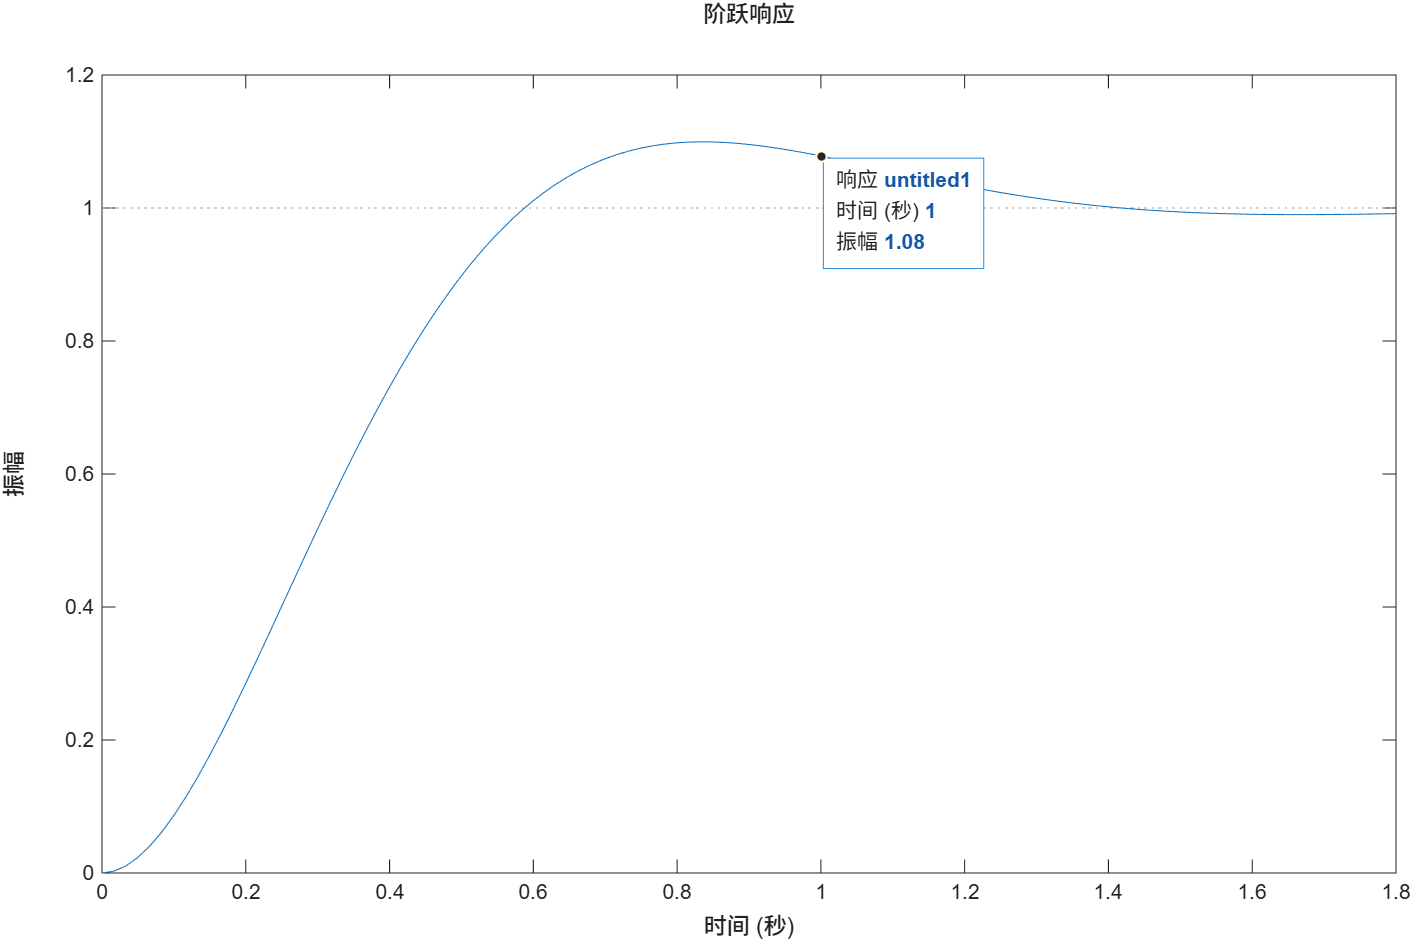
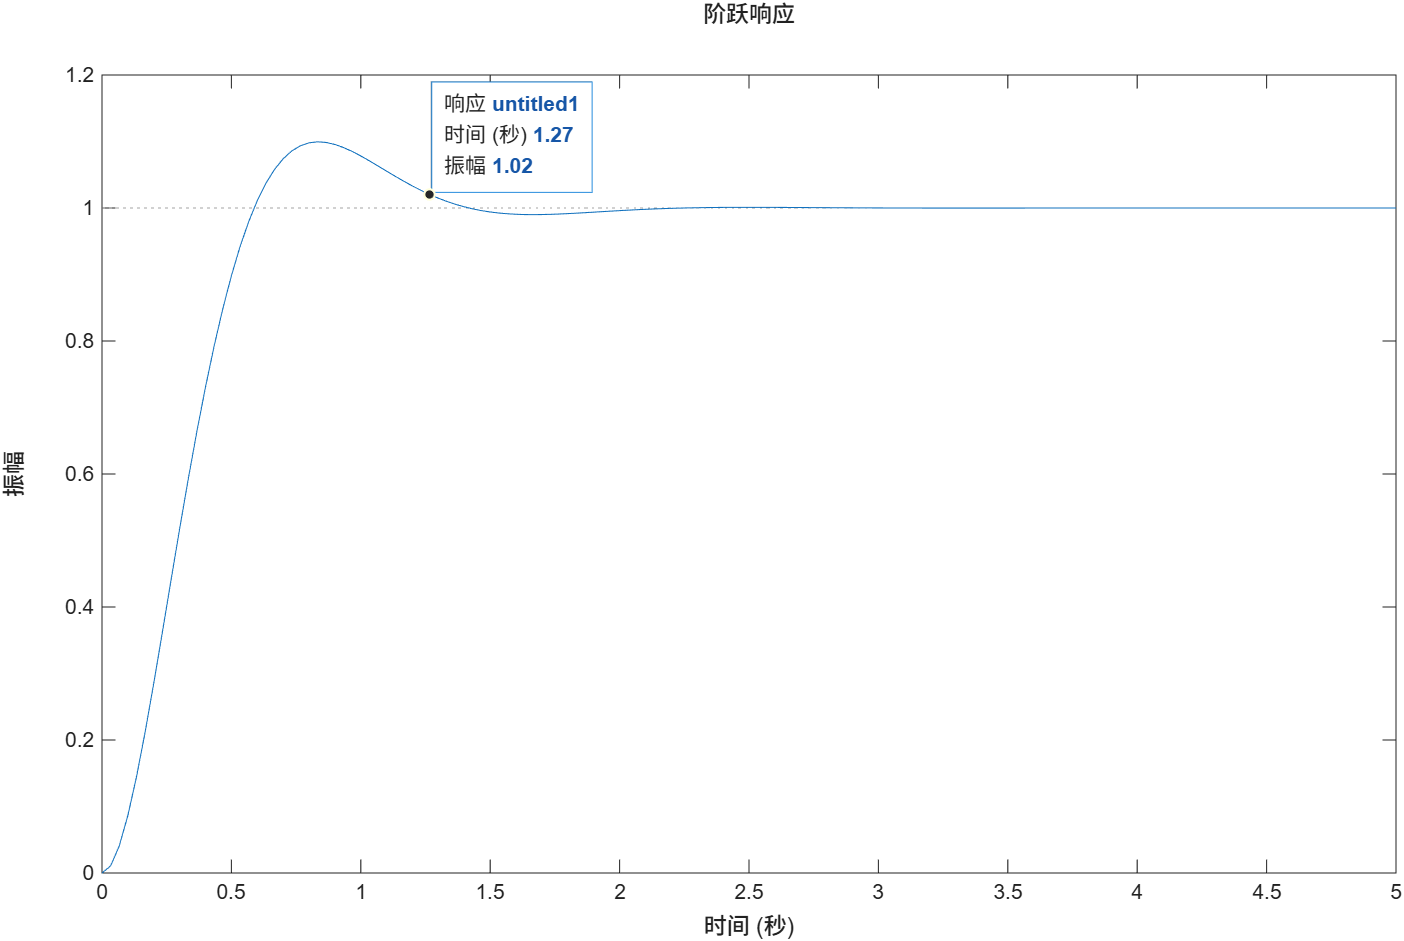
final version

diff --git a/report.tex b/report.tex
@@ -135,14 +135,14 @@
 \chapter{前言}
 本报告为西北工业大学电子信息学院《自动控制原理》课程设计成果，围绕两个核心课题展开，分别对应于课程设计的两道大题。报告采用经典控制理论的分析方法，结合 MATLAB 仿真工具，完成了从系统建模、性能分析到校正设计的全过程。
 
-第一章针对**空间站方位控制系统**展开根轨迹分析与优化设计。该章共分为三节：
+第一章针对空间站方位控制系统展开根轨迹分析与优化设计。该章共分为三节：
 \begin{itemize}
     \item 第一节“原系统根轨迹”对应题目第(1)-(4)小问，完成了根轨迹绘制与关键点标注、系统稳定性判定、阻尼比与自然频率的几何意义阐释，并根据超调量指标确定了合适的开环增益范围。
     \item 第二节“比例-微分控制”对应题目第(5)小问，评估了原系统的调节时间性能，设计了比例-微分（PD）控制器，并通过参数调整使系统满足了动态性能指标要求。
-    \item 第三节“过程中的其它尝试和反思”记录了在设计过程中对最优控制器参数求解的数学探索与思考，展示了控制理论学习的深入过程。
+    \item 第三节“过程中的其它尝试和反思”记录了在设计过程中对最优控制器参数求解的数学探索与思考。
 \end{itemize}
 
-第二章针对**角度跟踪系统**展开串联校正网络的设计与性能对比。该章共分为两节：
+第二章针对角度跟踪系统展开串联校正网络的设计与性能对比。该章共分为两节：
 \begin{itemize}
     \item 第一节“原系统的频域和时域分析”对应题目要求(1)-(2)，通过稳态误差分析确定了系统增益，并从时域和频域两个维度全面评估了原系统的性能。
     \item 第二节“串联校正装置的设置和性能分析”对应题目要求(3)-(5)，分别完成了串联超前、滞后-超前、串联滞后三种校正装置的设计与仿真验证，通过对比分析总结了不同校正网络的特点与适用范围。
@@ -150,10 +150,82 @@
 
 附录部分提供了支撑本报告的完整 MATLAB 源代码，包括根轨迹自动标注、性能热力图绘制、频域特性分析及各类校正装置的仿真脚本。
 
-由于本报告有大量彩色图片，可运行代码，含有超链接的文本（蓝色字体），推荐阅读电子版，可通过以下 GitHub 仓库获取：\\
-\url{https://github.com/hyh-npu/CR}
+由于本报告有大量彩色图片，可运行代码，含有超链接的文本（蓝色字体），推荐阅读电子版，可通过以下 GitHub 仓库获取：
+\url{https://github.com/hyh-npu/CR}（或浏览器扫描下方左侧二维码）或者微信扫描下方右侧二维码获取（需登录学校企业WPS账号）。
+\begin{figure}[H]
+    \centering
+    \begin{subfigure}[b]{0.3\textwidth}
+        \centering
+        \includegraphics[width=\linewidth]{./QRgithub.png}
+        \caption{GitHub 仓库二维码}
+    \end{subfigure}
+    \hspace{0.1\textwidth}
+    \begin{subfigure}[b]{0.3\textwidth}
+        \centering
+        \includegraphics[width=\linewidth]{./QRwps.png}
+        \caption{微信获取二维码}
+    \end{subfigure}
+\end{figure}
+本报告中的所有理论分析、方案设计与结果解读均由本人独立完成，具体说明见文末《其它说明》。由于水平有限，报告中难免存在疏漏之处，恳请老师批评指正。
 
-本报告中的所有理论分析、方案设计与结果解读均由本人独立完成，AI 工具仅作为编程辅助手段使用，具体说明见文末《说明和致谢》。由于作者水平有限，报告中难免存在疏漏之处，恳请老师批评指正。
+\chapter{符号说明}
+
+\begin{table}[htbp]
+\centering
+\renewcommand{\arraystretch}{1.35}
+\begin{tabular}{p{3.2cm}p{10cm}}
+\toprule
+\textbf{符号} & \textbf{说明} \\
+\midrule
+\multicolumn{2}{l}{\textit{基本变量与系统模型}} \\
+$s$ & 复频率变量 \\
+$\mathrm{j}$ & 虚数单位，$\mathrm{j}^2=-1$ \\
+$G(s),\,G_0(s)$ & 开环传递函数（$G_0(s)$ 特指原系统） \\
+$G_c(s)$ & 串联校正装置传递函数 \\
+$T(s)$ & 闭环传递函数 \\
+$K,\,K^*$ & 系统开环增益 \\
+$K_v$ & 静态速度误差系数 \\
+$p_i$ & 第 $i$ 个开环极点 \\
+$z_j$ & 第 $j$ 个开环零点 \\
+$n,\,m$ & 开环极点个数与零点个数 \\
+$D(s)$ & 系统特征方程，$1+G(s)H(s)=0$ \\
+\midrule
+\multicolumn{2}{l}{\textit{时域性能指标}} \\
+$\zeta$（或 $\xi$） & 阻尼比 \\
+$\omega_n$ & 无阻尼自然频率（rad/s） \\
+$\omega_d$ & 阻尼自然频率，$\omega_d=\omega_n\sqrt{1-\zeta^2}$（rad/s） \\
+$\sigma\%$ & 超调量（百分比） \\
+$t_s$ & 调节时间（按 $2\%$ 准则，单位 s） \\
+$t_p$ & 峰值时间（s） \\
+$e_{ss}(\infty)$ & 稳态误差 \\
+$c(t)$ & 系统单位阶跃响应 \\
+$M_p$ & 最大超调量 \\
+\midrule
+\multicolumn{2}{l}{\textit{频域性能指标}} \\
+$\omega$ & 角频率（rad/s） \\
+$\omega_c$（$\omega_{cp}$） & 截止频率（剪切频率/幅值穿越频率，rad/s） \\
+$\omega_g$（$\omega_{cg}$） & 相位穿越频率（增益交界频率，rad/s） \\
+$\gamma$（PM） & 相位裕度（$^\circ$） \\
+$h$（GM） & 幅值裕度（dB） \\
+\midrule
+\multicolumn{2}{l}{\textit{控制器与校正网络参数}} \\
+$T_d$ & 比例--微分（PD）控制器微分时间常数 \\
+$a$ & 超前校正网络分度系数（$a>1$） \\
+$b$ & 滞后校正网络分度系数（$0<b<1$） \\
+$T,\,T_a,\,T_b$ & 校正网络时间常数（s） \\
+$\phi_m$ & 最大超前相角（$^\circ$） \\
+\midrule
+\multicolumn{2}{l}{\textit{根轨迹相关}} \\
+$\theta_a$ & 根轨迹渐近线倾斜角（$^\circ$） \\
+$\sigma_a$ & 根轨迹渐近线与实轴交点 \\
+\midrule
+\multicolumn{2}{l}{\textit{其他}} \\
+$I$ & 性能指标（积分平方误差，ISE） \\
+\bottomrule
+\end{tabular}
+\end{table}
+
+
 
 \mainmatter
 % ========== 课程报告（无编号+安全的目录项） ==========
@@ -266,7 +338,7 @@ G_0(s) = \frac{4K}{s(s+2)}
 \backmatter
 \chapter{其它说明}
 
-本报告为西北工业大学电子信息学院《自动控制原理》课程设计成果，围绕两个核心课题展开：一是基于根轨迹法的空间站方位控制系统分析与 PD 校正设计，二是角度跟踪系统的串联校正网络设计与性能对比。
+本报告为西北工业大学电子信息学院《自动控制原理》课程设计成果，围绕两个课题展开：一是基于根轨迹法的空间站方位控制系统分析与 PD 校正设计，二是角度跟踪系统的串联校正网络设计与性能对比。
 
 整个实验过程严格遵循经典控制理论的分析范式：首先从系统数学模型出发，通过根轨迹、频域伯德图等工具完成原系统性能评估；其次结合超调量、调节时间、稳态误差等性能指标要求，推导校正网络的结构与参数；最后通过 MATLAB 仿真验证设计方案的有效性，并完成校正前后系统的性能对比与总结。
 

diff --git a/ques2_2/ques2_2.tex b/ques2_2/ques2_2.tex
@@ -47,22 +47,22 @@ $\phi_m< 60^\circ$,可以使用超前校正。继续求解得到
 此时系统的相角裕度是$GM = 46.64^\circ$。
 校正系统的伯德图如图\ref{fig:for}，校正后系统的伯德图如图\ref{fig:for_sys}
 ，阶跃响应是\ref{fig:for_time}。此时，系统幅值裕度依然是无穷，时域上
-调节时间减少，而且超调量大幅降低。
+调节时间减少（0.49s），而且超调量大幅降低（24.2\%）。
 \begin{figure}[H]
     \centering
-    \includegraphics[width=0.8\textwidth]{./ques2_2/for.png}
-    \caption{校正系统伯德图}
+    \includegraphics[width=0.7\textwidth]{./ques2_2/for.png}
+    \caption{校正装置伯德图}
     \label{fig:for}
 \end{figure}
 \begin{figure}[H]
     \centering
-    \includegraphics[width=0.8\textwidth]{./ques2_2/for_sys.png}
+    \includegraphics[width=0.7\textwidth]{./ques2_2/for_sys.png}
     \caption{校正后系统伯德图}
     \label{fig:for_sys}
 \end{figure}
 \begin{figure}[H]
     \centering
-    \includegraphics[width=0.8\textwidth]{./ques2_2/for_time.png}
+    \includegraphics[width=0.7\textwidth]{./ques2_2/for_time.png}
     \caption{校正后系统阶跃响应}
     \label{fig:for_time}
 \end{figure}
@@ -114,22 +114,22 @@ $\omega_a = 0.131356$， $\omega_b = 0.446323$
 \]
 校正系统的伯德图如图\ref{fig:bf}，校正后系统的伯德图如图\ref{fig:bf_sys}
 ，阶跃响应是\ref{fig:bf_time}。此时，系统相角裕度是$53.17^\circ$，幅值裕度依然是无穷，时域上
-调节时间减少，而且超调量大幅降低。
+调节时间减少（2.34s），而且超调量大幅降低（18.7\%）。
 \begin{figure}[H]
     \centering
-    \includegraphics[width=0.8\textwidth]{./ques2_2/bf.png}
-    \caption{校正系统伯德图}
+    \includegraphics[width=0.7\textwidth]{./ques2_2/bf.png}
+    \caption{校正装置伯德图}
     \label{fig:bf}
 \end{figure}
 \begin{figure}[H]
     \centering
-    \includegraphics[width=0.8\textwidth]{./ques2_2/bf_sys.png}
+    \includegraphics[width=0.7\textwidth]{./ques2_2/bf_sys.png}
     \caption{校正后系统伯德图}
     \label{fig:bf_sys}
 \end{figure}
 \begin{figure}[H]
     \centering
-    \includegraphics[width=0.8\textwidth]{./ques2_2/bf_time.png}
+    \includegraphics[width=0.7\textwidth]{./ques2_2/bf_time.png}
     \caption{校正后系统阶跃响应}
     \label{fig:bf_time}
 \end{figure}
@@ -137,15 +137,12 @@ $\omega_a = 0.131356$， $\omega_b = 0.446323$
 \subsection{串联迟后校正系统的设计和分析}
 串联迟后系统具有形式：
 \begin{equation}
-    \frac{bTs+1}{Ts +1}
+   G_c(s) = \frac{bTs+1}{Ts +1}
 \end{equation}
-串联迟后校正具有相角迟后，幅值衰减的特性，能够挖掘系统的相角储备，适合相角条件有余裕，但幅值条件不足的情况。
-原系统中不满足相角条件要求，但是幅值裕度却满足，并不适配于串联迟后校正。但是如果只是满足系统的幅值，相角裕度
+串联迟后校正具有相角迟后，幅值衰减的特性，能够挖掘系统的相角储备，适合截止频率有余裕，但相角裕度条件不足且无法通过
+超前校正弥补的情况。
+原系统中不满足相角条件要求但可以用超前校正弥补，而且截止频率却并不充足（调节时间较长），并不适配于串联迟后校正。但是如果只是满足系统的幅值，相角裕度
 的条件，那么串联迟后校正也是可以使用的。
-
-一般情况下，串联迟后校正的作用是在$\omega_g$上以小幅迟后相角的代价降低幅值，从而减少幅值裕度。但使用此方法
-显然不适用于该情况，因为这势必会进一步降低相角裕度。但是观察原系统，原系统的幅相曲线比较有规律，是一条单调下降曲线，
-可以考虑利用迟后校正幅值衰减的特点，移动系统的$\omega_c$，从而使系统满足设计要求。
 
 详细步骤如下：
 首先选定系统的新截止频率$\omega_c$,
@@ -190,7 +187,7 @@ $\omega_a = 0.131356$， $\omega_b = 0.446323$
 系统伯德图如图\ref{fig:back}
 \begin{figure}[H]
     \centering
-    \includegraphics[width=0.8\textwidth]{./ques2_2/back.png}
+    \includegraphics[width=0.7\textwidth]{./ques2_2/back.png}
     \caption{校正装置伯德图}
     \label{fig:back}
 \end{figure}
@@ -198,19 +195,19 @@ $\omega_a = 0.131356$， $\omega_b = 0.446323$
 校正后系统的伯德图如图\ref{fig:back_sys}，阶跃响应如图\ref{fig:back_time}
 \begin{figure}[H]
     \centering
-    \includegraphics[width=0.8\textwidth]{./ques2_2/back_sys.png}
+    \includegraphics[width=0.7\textwidth]{./ques2_2/back_sys.png}
     \caption{校正后系统伯德图}
     \label{fig:back_sys}
 \end{figure}
 
 \begin{figure}[H]
     \centering
-    \includegraphics[width=0.8\textwidth]{./ques2_2/back_time.png}
+    \includegraphics[width=0.7\textwidth]{./ques2_2/back_time.png}
     \caption{校正后系统阶跃响应}
     \label{fig:back_time}
 \end{figure}
 校正后系统的相角裕度是$45.56^\circ$，幅值裕度不变，满足设计要求。但是从时域响应图\ref{fig:back_time}中
-可以看出，由于截止频率的减小，系统响应速度变慢，系统调节时间并没有因为震荡被遏制而得到缩减。
+可以看出，由于截止频率的减小，系统响应速度变慢，系统调节时间并没有因为震荡被遏制而得到缩减，反而明显增大（7.6s）；但系统的超调量明显减少（28.2\%）。
 
 
 \subsection{三种校正方式对比分析}
@@ -233,11 +230,11 @@ $\omega_a = 0.131356$， $\omega_b = 0.446323$
 
 
 
-从设计原理上看，\textbf{超前校正}利用校正网络在中频段的相位超前特性，有效提高了系统的相角裕度，从而显著减小了阶跃响应的超调量，并加快了系统的响应速度（增大剪切频率 $\omega_c$）。然而，该方法会抬升高频段的增益，可能降低系统对高频噪声的抗干扰能力。
+从设计原理上看，\textbf{超前校正}适用于稳态精度已满足而动态性能不足的场合。它利用网络在中频段的相位超前特性，提高相角裕度，减小阶跃响应的超调量，并加快响应速度（增大剪切频率 $\omega_c$）。但会抬升高频段增益，降低对高频噪声的抗干扰能力。
 
-\textbf{滞后校正}则侧重于改善系统的稳态精度。通过将校正网络的极点配置在低频段，大幅提高了系统的开环直流增益，从而降低了稳态误差；同时，它将剪切频率向左移动，牺牲了一定的响应速度以换取足够的相角储备，保证了系统的稳定性。
+\textbf{滞后校正}适用于动态性能满足而稳态精度不足的场合。它通过将极点配置在低频段，提高开环直流增益以降低稳态误差；同时将剪切频率左移，牺牲响应速度换取相角储备，保证稳定性。
 
-\textbf{滞后-超前校正}则兼顾稳态精度和动态性能。该方案结合了前两者的优势：滞后部分用于提高低频增益以改善稳态性能，超前部分用于补偿中频相位以提升动态响应品质。虽然其物理实现相对复杂，但在面对单一校正无法满足全部性能指标时，具有最佳的调节灵活性。
+\textbf{滞后-超前校正}适用于对稳态精度和动态性能均有较高要求的场合。该方案结合两者优势：滞后部分提高低频增益改善稳态性能，超前部分补偿中频相位提升动态响应品质。虽然物理实现相对复杂，但在单一校正无法满足全部性能指标时，具有最佳的调节灵活性。
 
 综上所述，三种校正方式的性能特点对比如表~\ref{tab:correction_comparison}所示。
 
@@ -258,8 +255,8 @@ $\omega_a = 0.131356$， $\omega_b = 0.446323$
     \end{tabular}
 \end{table}
 
-就实际而言，由于超前校正对高频增益不大，采用超前校正，不仅实现简单，而且明显减少超调量和调节时间，
-迟后-超前校正表现适中，校正装置更加灵活可调，但是实现较为复杂。迟后系统只是勉强达到基本设计要求
+就本题目而言，由于超前校正对高频增益不大，采用超前校正，不仅实现简单，而且明显减少超调量和调节时间，
+迟后-超前校正表现适中，校正装置更加灵活可调，但是实现较为复杂。迟后系统只是勉强达到基本设计要求，
 对超调的抑制明显不如前两者，而且调节时间相比前两者更长，不适宜应用在此系统中。故，如果对高频噪声
 不敏感，应当使用超前校正；如果不考虑实现成本，可以使用迟后-超前校正。
 

diff --git a/extra/extra.tex b/extra/extra.tex
@@ -24,7 +24,7 @@ $\mathbb{V} $中的向量，用其 2-范数 表示系统性能，也就是：
 \begin{align}
    Td, K &=  \mathop{\arg\max}\limits_{Td,K} I(Td,K) \\&= \mathop{\arg\max}\limits_{Td,K}\int_{0}^{\infty} (c(Td, K, t)-1)^2 dt
 \end{align}
-假设这个函数在极值附近区域内是光滑的（事实上，这个区域不存在），那么只要求
+假设这个函数在极值附近区域内是光滑的（事实上，这个区域不存在，或者说，不存在于$\mathbb{R} ^2$上，这也导致后面的无解），那么只要求
 \begin{equation}
     \begin{cases}
         \frac{\partial I}{\partial Td} &= \int_{0}^{\infty} 2(c-1) \frac{\partial c}{\partial Td} dt =0\\
@@ -109,8 +109,8 @@ $q_i( i=1,2)$表示两个参数，$q_1 = Td, q_2 = K$。利用拉普拉斯变换
 在第二节得到的结论一致，即使增益K很大，也可以通过微分系数比较小的比例-微分控制器实现很好的控制效果。
 
 同时观察图\ref{fig:func2}，两条曲线可能在负值处有交点，但这不是我们关注的区域。在正值区域，两条曲线基本平行，没有交点，
-说明式（\ref{numrst}）的结果合理。同时根据引入无穷远点（理想点）的欧式平面的性质，平行线交于无穷原点，可以认为，$K,T$在趋近于无穷大时，
-系统趋近理想性能（式（\ref{eq:ex_int}）中，$I=0$）。
+说明式（\ref{numrst}）的结果合理。同时，平行线交于无穷远点，可以认为，$K,T$在趋近于无穷大时，
+系统趋近理想性能（即式（\ref{eq:ex_int}）中，$I=0$）。
 
 当然，即使不考虑现实器件的约束，系统可以实现任意大的增益，也会由于抗噪，鲁棒性的要求而不能采用。因而仅仅通过一两个理论上的参数，
 是没有办法确定最优的系统的。想要更优地实现控制系统，需要对控制理论有更深入地了解，通过更多指标和更多理论知识标定和寻找一个真实

diff --git a/ques2/ques2.tex b/ques2/ques2.tex
@@ -18,7 +18,7 @@
     \caption{原系统响应曲线}
     \label{fig:ques2_sys_response}
 \end{figure}
-可以看到$t=1s$时，系统的输出大于 1.02，因此原系统在 $K = 20.3$ 时不满足调节时间要求，进而有原系统不满足要求，需要添加比例微分控制器。
+可以看到，此时系统实际调节时间为1.27s。因此原系统在 $K = 20.3$ 时不满足调节时间要求，进而有原系统不满足要求，需要添加比例微分控制器。
 
 \subsection{比例-微分控制器设计}
 添加比例-微分控制器，相当于对系统引入一个闭环零点，可以加快系统响应速度并降低超调量。
@@ -29,7 +29,7 @@
     \caption{等效根轨迹图}
     \label{fig:eqroot}
 \end{figure}
-由图可得，存在最佳阻尼比$\xi=0.707$的点，此时$Td=0.0488$。这组参数下的响应曲线和相关参数如图\ref{fig:td0488}。
+由图可得，存在最佳阻尼比$\xi=0.707$的点，此时$Td=0.0488, K = 20.3$。这组参数下的响应曲线和相关参数如图\ref{fig:td0488}。
 \begin{figure}[H]
     \centering
     \includegraphics[width=0.8\textwidth]{./ques2/td0488.png}
@@ -106,7 +106,7 @@ $Td=0.1$（图\ref{fig:td1}）
     \label{fig:heat}
 \end{figure}
 可以看到，增大增益$K$，可以使得系统调节时间明显缩短，但是超调量却迅速增加，但是超调量的增加却可以被迅速$Td$的增大遏制，当$Td>0.08$以后
-超调量就主要取决于$Td$。图中的最优参数点是指在满足超调量要求下调节时间最短的点。最优参数点位于图中边界上，结合图像区域可以判断，事实上仅仅
+超调量就主要取决于$Td$。图中的最优参数点是指在满足超调量要求下调节时间最短的点。最优参数点位于图中边界上，结合图像趋势可以判断，事实上仅仅
 依靠超调量和调节时间两个指标，不存在最优性能点，只要$K$足够大，选择合适的$Td$，性能可以任意接近理想状态（零超调，零调节时间）。
 
 \end{document}

diff --git a/ques1/ques1.tex b/ques1/ques1.tex
@@ -179,7 +179,7 @@
     M_p = c(t_p) - 1 = e^{-\frac{\pi\xi}{\sqrt{1-\xi^2}}}
 \end{align}
 令 $M_p = 0.1$，得到 $\xi = 0.5912$。
-结合图像\ref{fig:ques1_rlocus_K}，可以得到 $\xi = 0.5912$ 对应的增益 $K = 20.3$，在时域上验证，符合预期（见图\ref{fig:ques1_time_K}）。
+结合图像\ref{fig:ques1_rlocus_K}，可以得到 $\xi = 0.5912$ 对应的增益 $K = 20.3$，在时域上验证，符合预期（见图\ref{fig:ques1_time_K}），超调量为 $\sigma \% = 9.95\%$。
 \begin{figure}[H]
     \centering
     \begin{subfigure}[b]{0.4\textwidth}